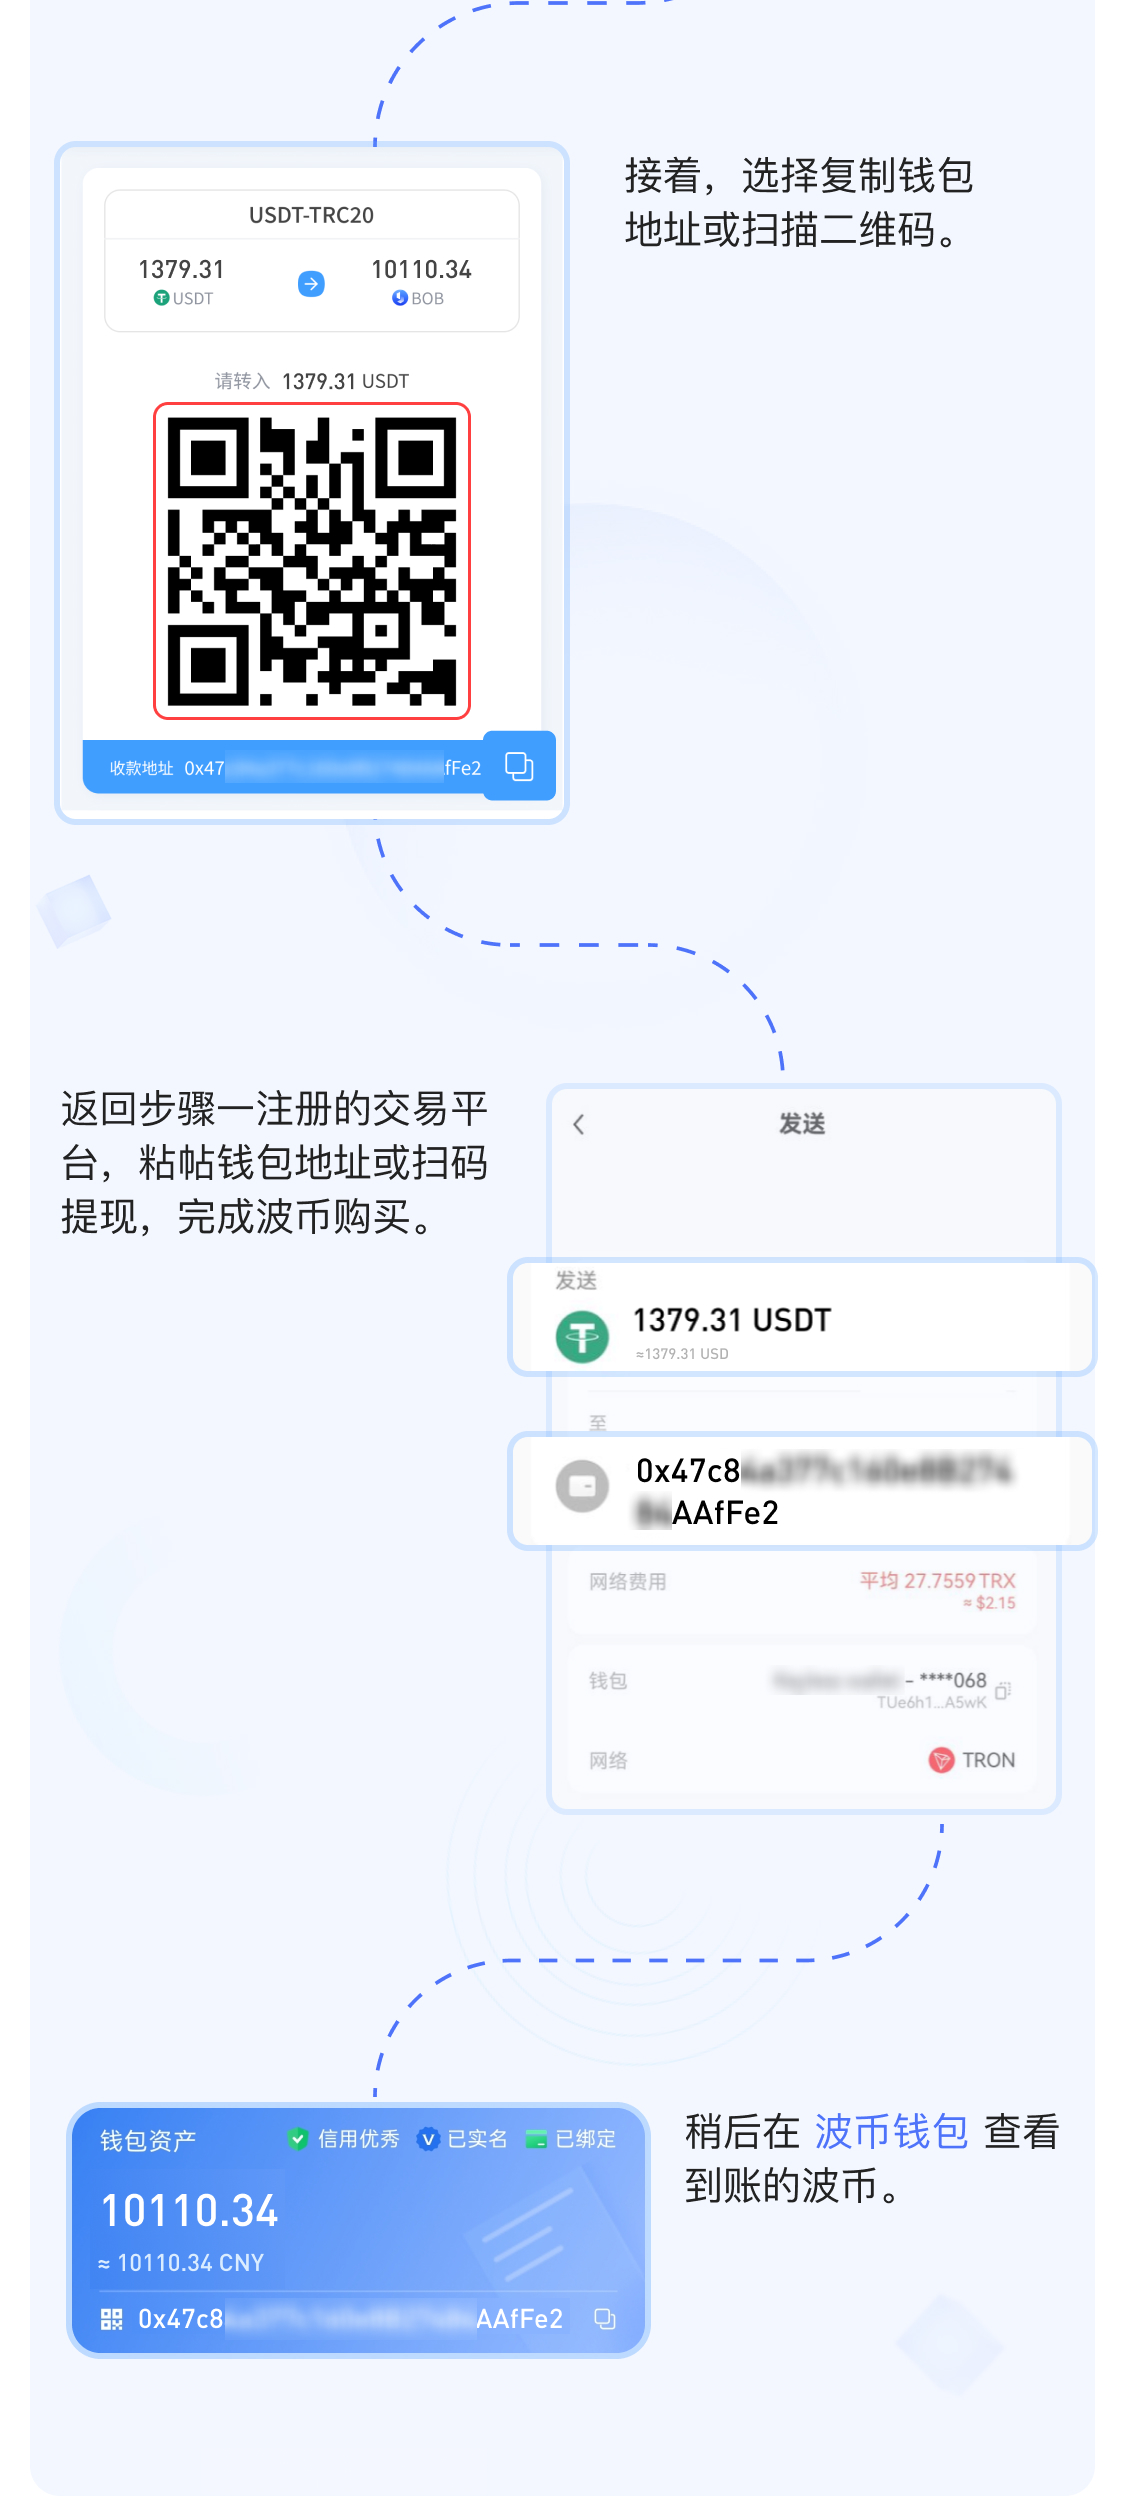
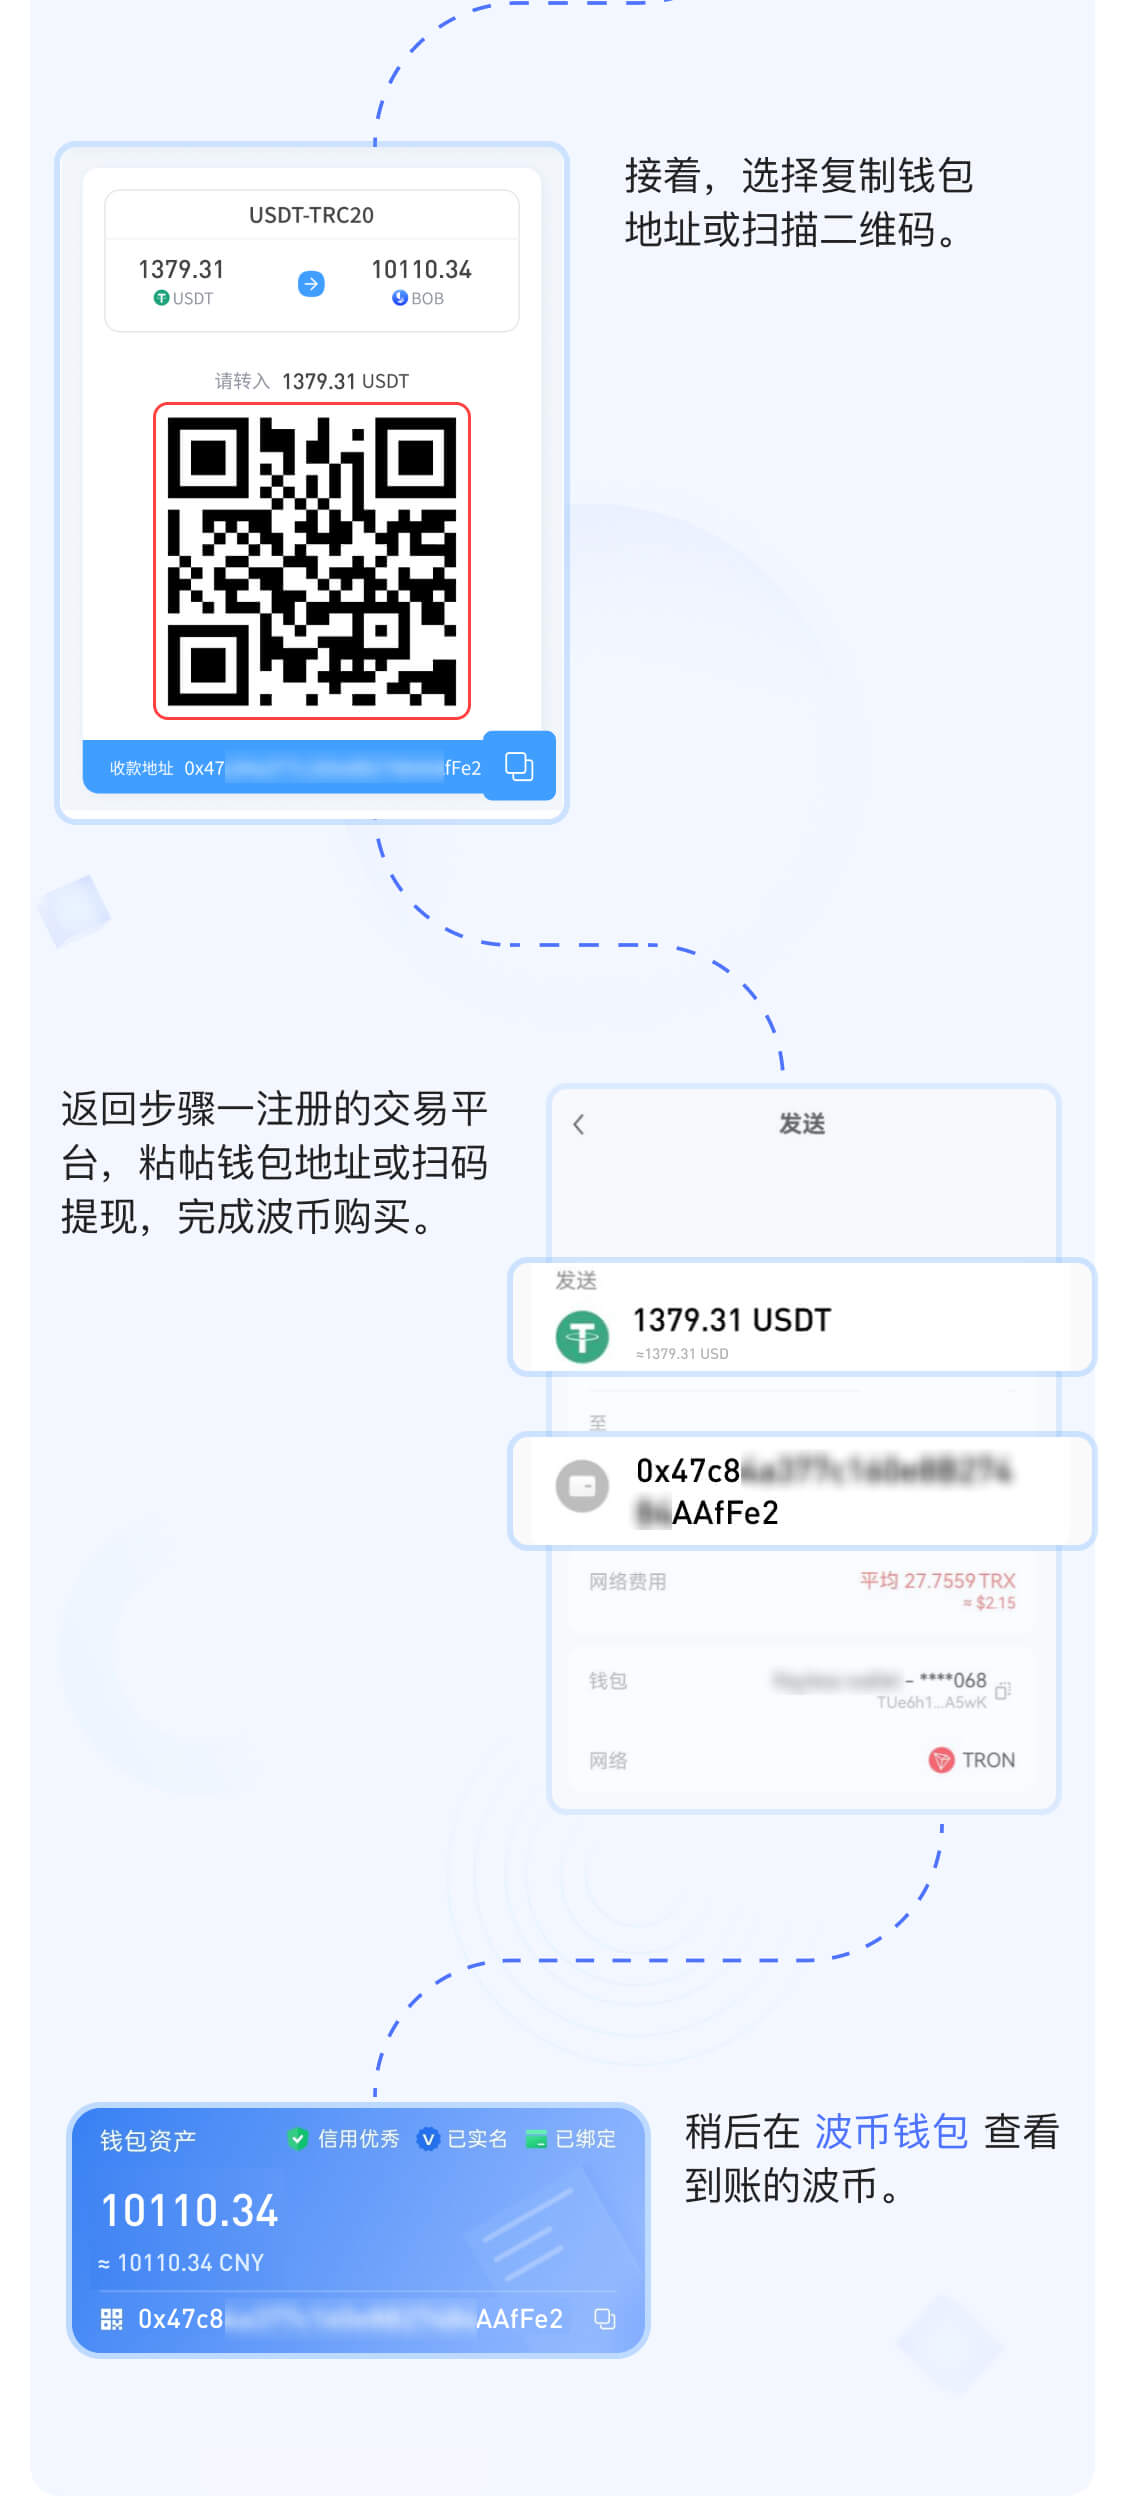
compress images

diff --git a/src/index.html b/src/index.html
@@ -292,15 +292,15 @@
 
         try {
           if (isApp) {
-            window.flutter?.call('jumpTo', {
+            window?.flutter?.call('jumpTo', {
               url: `app://web?target=1&url=${encodeURIComponent(url)}`
             }, null);
           } else {
-            if (window.flutter) {
+            if (window?.flutter) {
               let openUrl = `app://web?target=1&url=${encodeURIComponent(url)}`;
               window?.open(openUrl, '_blank');
             } else {
-              window.parent?.postMessage({
+              window?.parent?.postMessage({
                 type: 'OPEN_URL',
                 url: url
               }, '*');
@@ -309,7 +309,7 @@
         } catch (error) {
           console.error('Error opening URL:', error);
           // Fallback to window.open
-          window.open(url, '_blank');
+          window?.open(url, '_blank');
         }
       }
 
